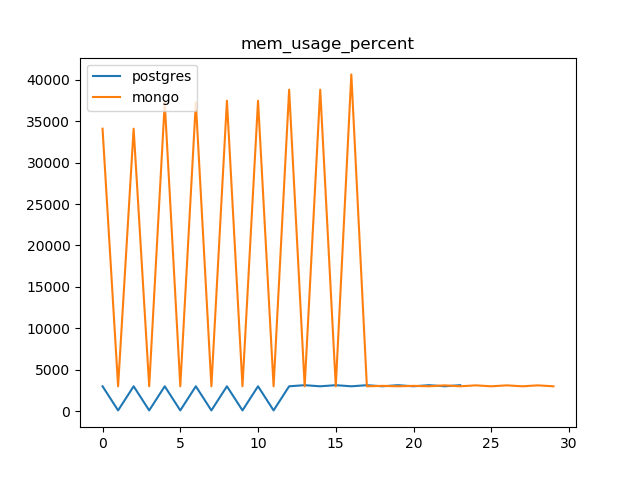
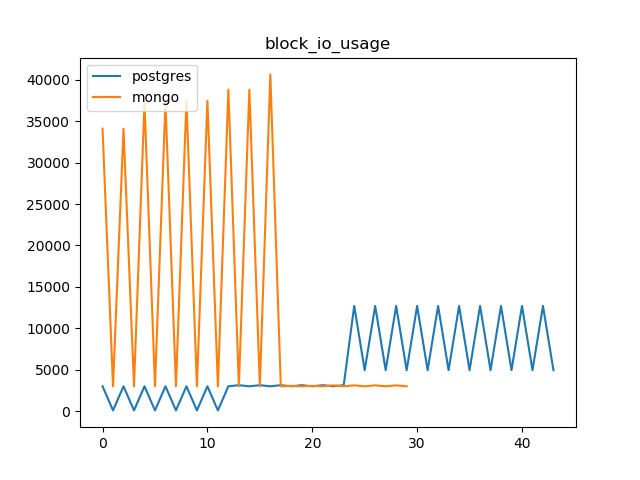
prep for proposal

diff --git a/bench/draw/draw_resource.py b/bench/draw/draw_resource.py
@@ -48,7 +48,7 @@ def net_io_usage():
         for key in plot_points.keys():
             plt.plot(plot_points[key], label=key)
 
-        plt.title("mem_usage_percent")
+        plt.title("net_io_usage")
         plt.legend(loc="upper left")
         plt.savefig(f"../images/NETIO.png", dpi=100)
         plt.clf()
@@ -82,7 +82,7 @@ def mem_cpu_usage():
         for key in plot_points.keys():
             plt.plot(plot_points[key], label=key)
 
-        plt.title("mem_usage_percent")
+        plt.title("mem_cpu_usage")
         plt.legend(loc="upper left")
         plt.savefig(f"../images/MEM_USAGE.png", dpi=100)
         plt.clf()
@@ -101,7 +101,7 @@ def plot_cpu_usage_percent():
         for key in plot_points.keys():
             plt.plot(plot_points[key], label=key)
 
-        plt.title("mem_usage_percent")
+        plt.title("cpu_usage_percent")
         plt.legend(loc="upper left")
         plt.savefig(f"../images/cpu_usage_percent.png", dpi=100)
         plt.clf()
@@ -162,7 +162,7 @@ def block_io_usage():
         for key in plot_points.keys():
             plt.plot(plot_points[key], label=key)
 
-        plt.title("mem_usage_percent")
+        plt.title("block_io_usage")
         plt.legend(loc="upper left")
         plt.savefig(f"../images/BLOCK.png", dpi=100)
         plt.clf()

diff --git a/bench/utils.py b/bench/utils.py
@@ -137,6 +137,7 @@ def docker_stats(filename):
             things['NET I/O'] = " ".join(items[7:10])
             things['BLOCK I/O'] = " ".join(items[10:-2])
             things['PIDS'] = items[-1]
+            things['TIME'] = time.time()
 
             data = json.load(open(filename, "r"))
             data["stats"].append(things)
